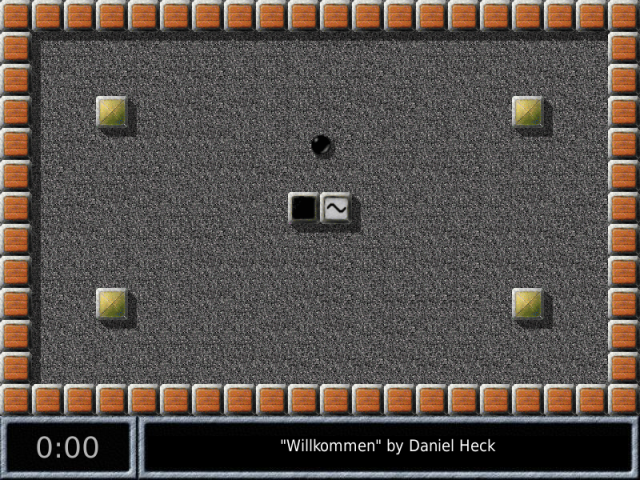
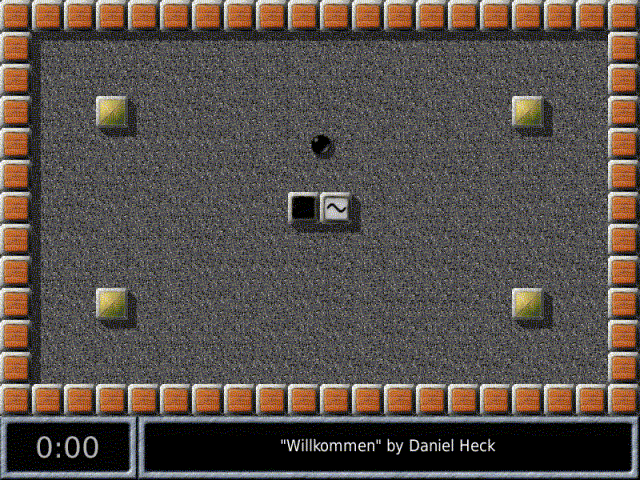
- update on credits - update on de.po - reduce refman image to 8bit color depth

diff --git a/src/gui/MainMenu.cc b/src/gui/MainMenu.cc
@@ -108,13 +108,13 @@ namespace enigma { namespace gui {
     /* -------------------- Main menu -------------------- */
     static const char *credit_text[] = {
         N_("Main developers of the 1.0 release:"),
-        N_("  RONALD LAMPRECHT  (lead)"),
+        N_("  RONALD LAMPRECHT (lead)"),
         "  RAOUL BOURQUIN",
         "  ANDREAS LOCHMANN",
         " ",
         N_("Special Thanks To:"),
-        N_("  DANIEL HECK  (project founder)"),
-        N_("  MEINOLF SCHNEIDER  (game idea, level design)"),
+        N_("  DANIEL HECK (project founder)"),
+        N_("  MEINOLF SCHNEIDER (game idea, level design)"),
         " ",
         N_("Please refer to the manual or the next pages for full credits."),
         " ",
@@ -128,11 +128,11 @@ namespace enigma { namespace gui {
         0,
         N_("Main developer of all releases:"),
         " ",
-        "  Raoul Bourquin  (Level administration, level updates, level design)",
+        "  Raoul Bourquin  (Level admin. & design, all over invaluable additions)",
         "  Siegfried Fenning  (Level design, graphics)",
         "  Martin Hawlisch  (Level design, graphics, programming)",
         "  Daniel Heck  (Main developer, graphics, documentation)",
-        "  Ronald Lamprecht  (XML, Gui, portability, documentation)",
+        "  Ronald Lamprecht  (XML, Gui, portability, core prog., documentation)",
         "  Andreas Lochmann  (Programming, level admin. & design, documentation)",
         "  Petr Machata  (Level design, programming)",
         "  Nat Pryce  (Level design)",
@@ -145,11 +145,12 @@ namespace enigma { namespace gui {
         "  Jeremy Sawicki  (Oxydlib)",
         "  Erich Schubert  (Debian packages)",
         "  Andrew \'Necros\' Sega (Menu music \'Pentagonal Dreams\')",
+        "  \'Cellar of Rats\'  (Sound effects)",
         "  David W. Skinner  (Many Sokoban Levels)",
         0,
         N_("Contributors:"),
         "  Roberto Bardin  (Level design)",
-        "  Alain Busser  (Level design)",
+        "  Alain Busser  (Level design, French translation, manual)",
         "  Guy Busser  (Level design)",
         "  Richi Bützer  (Level design)",
         "  Capkoh  (Level design)",
